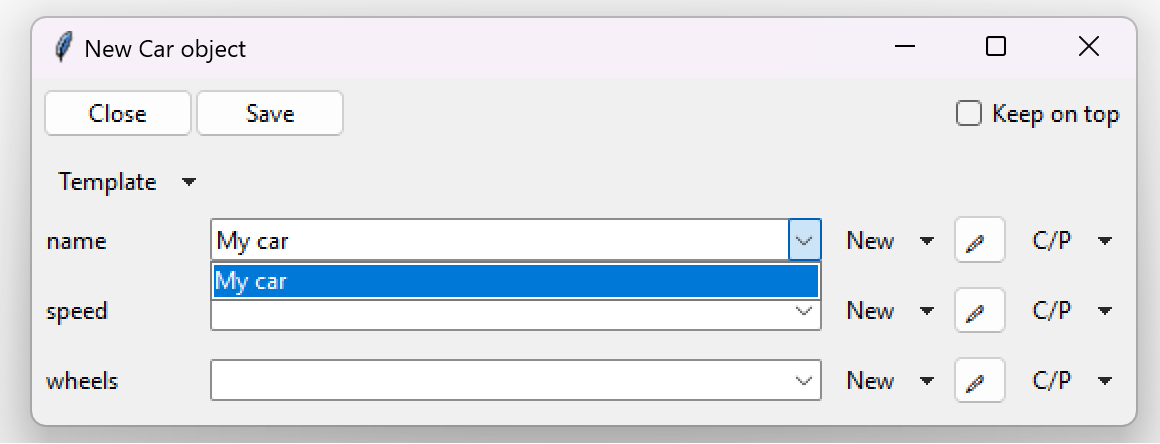
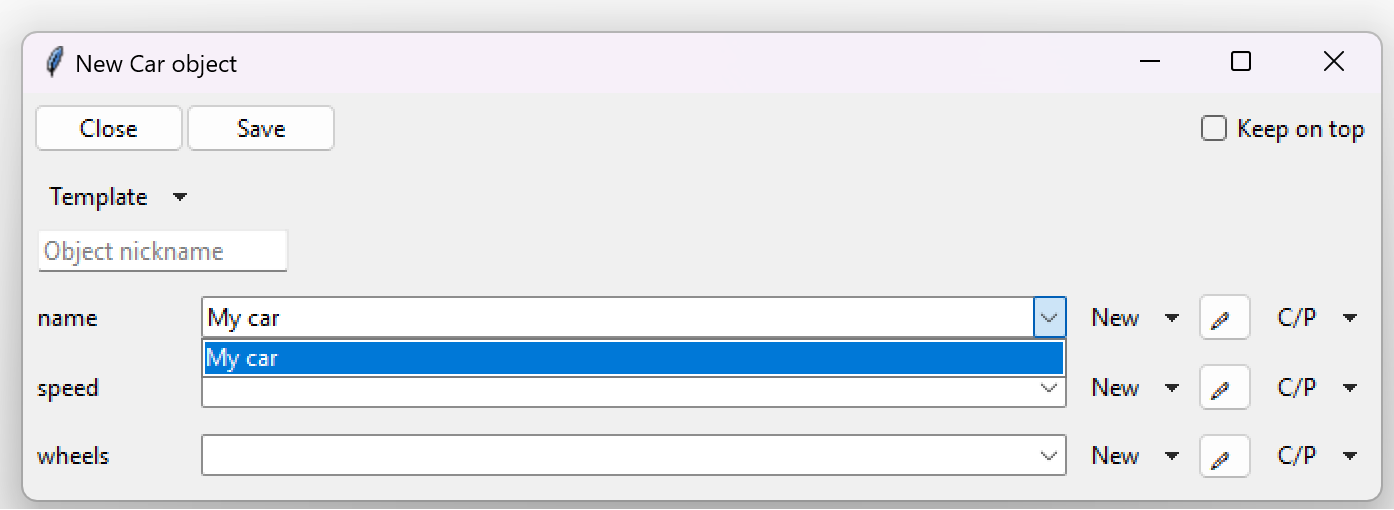
docs

Changed region(s): [[0.0, 0.0293, 0.9931, 0.9955], [0.8379, 0.4685, 0.869, 0.4977], [0.8069, 0.5563, 0.8379, 0.5856]]

diff --git a/docs/source/conf.py b/docs/source/conf.py
@@ -78,7 +78,7 @@ autodoc_default_options = {
 
 # Intersphinx
 intersphinx_mapping = {
-    "Python" : ("https://docs.python.org/3/", None)
+    "python" : ("https://docs.python.org/3/", None)
 }
 
 # ----------- HTML ----------- #

diff --git a/docs/source/guide/defining.rst b/docs/source/guide/defining.rst
@@ -44,7 +44,22 @@ load them from a JSON file back into the GUI.
     For verification purposes, the JSON file contains the full path to the defining class.
     Changing the class path requires users to update the corresponding path within the JSON files as well.
 
-Going down further we can see multiple rows, each one of the corresponding to a parameter.
+Below the "Template" button, an entry labeled "Object nickname" is located.
+This entry can be used to give an object a nickname.
+The nickname will be displayed before the class's name,
+allowing the object to be easily recognized at a glance.
+
+.. image:: ./images/new_define_frame_struct_nickname.png
+  :width: 15cm
+
+This is how the object will look inside a Combobox, if it is given the name "David's car"
+(notice the parentheses at the beginning):
+
+.. image:: ./images/example_gui_view_defined_nickname_car.png
+  :width: 15cm
+
+
+Going down further we can see multiple rows, each one of them corresponding to a parameter.
 
 .. image:: ./images/new_define_frame_struct_parameters.png
     :width: 15cm
@@ -55,7 +70,32 @@ The next item on the right is a Combobox (:class:`~tkclasswiz.storage.ComboBoxOb
 which is a dropdown menu used for storing the value of each defined parameter.
 This dropdown menu can contain multiple values while we are still editing,
 which we can access through the down arrow-like symbol located on the rightmost side of the Combobox.
-When the definition frame is closed all the other values that were not selected inside the Combobox get discarded.
+When the definition frame is closed, all the other (not selected) values get discarded.
+
+
+.. note::
+
+  While the dropdown menu (Combobox) can contains values manually defined through the GUI,
+  it will sometimes have some predefined values. These values can be:
+
+  - None: Parameter was annotated with :class:`typing.Optional` (``Optional[<type>]``) or
+    with :class:`typing.Union` (``Union[None, ...]``)
+  - ``True`` and ``False``: Parameter is a boolean parameter
+  - Literal string values: Parameter is a literal string, meaning it is annotated with
+    :class:`typing.Literal`. E. g, ``Literal['value1', 'value2', ...]`` annotation will produce the values 'value1' and
+    'value2' inside the Combobox.
+
+
+    .. code-block:: python
+
+      class Person:
+        def __init__(self, name: str, job_type: Literal["Science", "Technology", "Engineering", "Math"]):
+            ...
+
+    .. image:: ./images/new_define_frame_struct_literal_values.png
+      :width: 15cm
+
+
 The dropdown menu is followed by 3 buttons:
 
 - "New": is a dropdown menu button, which allows to define multiple data types that the parameter accepts. It can

diff --git a/docs/source/changelog.rst b/docs/source/changelog.rst
@@ -29,6 +29,7 @@ v1.2.0
 - Added the ability of nicknaming structured objects.
 - Generic types support (Parametric types)
 - :ref:`Type aliasing`
+- Object nicknaming
 - |BREAK_CH| Minimal Python version bumped to Python 3.9
 
 
